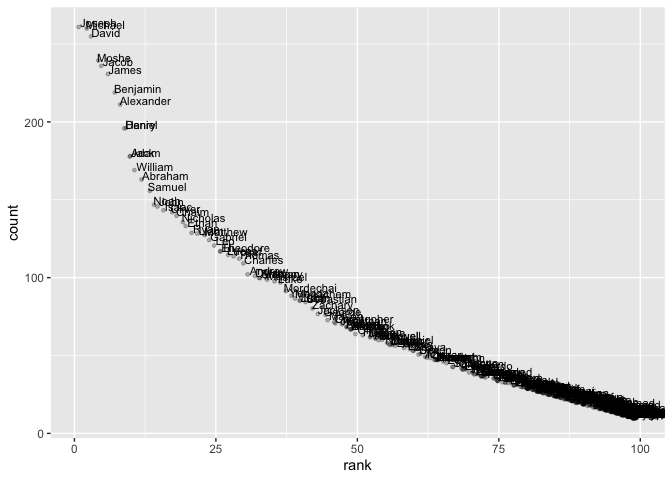
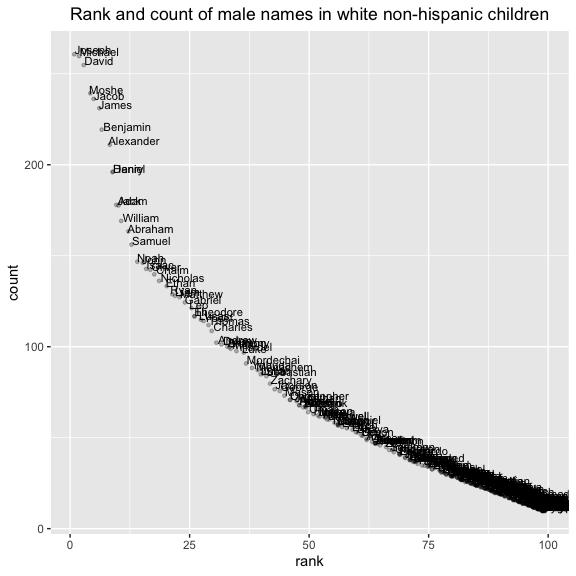
summary data

Changed region(s): [[0.0312, 0.0, 1.0, 1.0], [0.0, 0.4062, 0.0312, 0.5312]]

diff --git a/p8105_hw2_xj2249.md b/p8105_hw2_xj2249.md
@@ -1,6 +1,6 @@
 p8105\_hw2\_xj2249
 ================
-jx
+jx2249
 2019/9/24
 
 # Problem 1
@@ -9,41 +9,57 @@ jx
 
 ``` r
 library(tidyverse)
-mr_trash <- readxl::read_excel("./data/HealthyHarborWaterWheelTotals2018-7-28.xlsx", 
+mr_trash <- 
+        readxl::read_excel("./data/HealthyHarborWaterWheelTotals2018-7-28.xlsx", 
                                sheet = "Mr. Trash Wheel",
                                range = "A2:N336") %>% 
         janitor::clean_names() %>% 
-        drop_na(date) %>% 
+        drop_na(dumpster) %>% 
         mutate(sports_balls = as.integer(sports_balls))
 ```
 
 ## Read and clean precipitation data for 2017 and 2018
 
 ``` r
-pre_18 <- readxl::read_excel("./data/HealthyHarborWaterWheelTotals2018-7-28.xlsx", 
+pct_18 <- 
+        readxl::read_excel("./data/HealthyHarborWaterWheelTotals2018-7-28.xlsx", 
                              sheet = "2018 Precipitation",
                              range = "A2:B14") %>% 
         janitor::clean_names() %>% 
         drop_na(total) %>% 
         mutate(year = "2018")
-pre_17 <- readxl::read_excel("./data/HealthyHarborWaterWheelTotals2018-7-28.xlsx", 
+
+pct_17 <- 
+        readxl::read_excel("./data/HealthyHarborWaterWheelTotals2018-7-28.xlsx", 
                              sheet = "2017 Precipitation",
                              range = "A2:B14") %>% 
         janitor::clean_names() %>% 
         drop_na(total) %>% 
         mutate(year = "2017")
-pre_17_18 <- rbind(pre_18,pre_17) %>% 
+
+pct_17_18 <- 
+        rbind(pct_18,pct_17) %>% 
         mutate(month = month.name[month])
 ```
 
 Write a paragraph about these data; you are encouraged to use inline R.
+
 Be sure to note the number of observations in both resulting datasets,
 and give examples of key variables.
 
-For available data, what was the total precipitation in 2018?
+What was the median number of sports balls in a dumpster in 2017? done
 
-What was the median number of sports balls in a dumpster in 2017? The
-median number of sports balls in a dumpster in 2017 is 8
+The median number of sports balls in a dumpster in 2017 is 8
+
+## Mr. Trash Wheel dataset
+
+In Mr. Trash Wheel dataset, there are ‘285’ observations.
+
+In precipitation(2017-2018) dataset, there are 19 observations, with 3
+variables, indicating the total precipitation data for 19 months in 2017
+and 2018. The total precipitation in 2017 and 2018 are 32.93 and 23.5
+respectively. Besides, the average precipitation in 2017 and 2018 are
+2.74 and 3.36 respectively.
 
 # Problem 2
 
@@ -90,6 +106,10 @@ pol_snp <- left_join(pols,snp,by = c("year", "month"))
 pol_snp_unemp <- left_join(pol_snp,unemployment,by = c("year", "month"))
 ```
 
+Write a short paragraph about these datasets. Explain briefly what each
+dataset contained, and describe the resulting dataset (e.g. give the
+dimension, range of years, and names of key variables).
+
 # Problem 3
 
 ## Load and tidy the data
@@ -101,7 +121,9 @@ baby_name <-
         mutate(childs_first_name = str_to_title(childs_first_name),
                ethnicity = str_to_sentence(recode(ethnicity, "ASIAN AND PACIFIC ISLANDER" = "ASIAN AND PACI",
                                                                 "BLACK NON HISPANIC" = "BLACK NON HISP",
-                                                                        "WHITE NON HISPANIC" = "WHITE NON HISP"))) %>% 
+                                                                        "WHITE NON HISPANIC" = "WHITE NON HISP")),
+               gender = str_to_title(gender)
+               ) %>% 
         distinct(.keep_all = TRUE) %>% 
         view()
 ```
@@ -119,15 +141,13 @@ baby_name <-
 ## Creat table for ““Olivia”
 
 ``` r
-library(knitr)
 pop_olivia <- 
         baby_name %>% 
         filter(childs_first_name == "Olivia") %>% 
         select("year_of_birth","ethnicity","rank") %>% 
         pivot_wider(names_from = year_of_birth, values_from = rank ) %>% 
         select("ethnicity","2011","2012","2013","2014","2015","2016")
-
-kable(pop_olivia) 
+knitr::kable(pop_olivia) 
 ```
 
 | ethnicity      | 2011 | 2012 | 2013 | 2014 | 2015 | 2016 |
@@ -141,16 +161,20 @@ kable(pop_olivia)
 # Finally, for male, white non-hispanic children born in 2016, produce a scatter plot showing the number of children with a name (y axis) against the rank in popularity of that name (x axis).
 ```
 
+Finally, for male, white non-hispanic children born in 2016, produce a
+scatter plot showing the number of children with a name (y axis) against
+the rank in popularity of that name (x axis).
+
 ## The most popular name among male children over time.
 
 ``` r
 pop_male_name <- 
         baby_name %>% 
-        filter(gender == "MALE" & rank == 1) %>% 
+        filter(gender == "Male" & rank == 1) %>% 
         select(year_of_birth, ethnicity, childs_first_name) %>% 
         pivot_wider(names_from = year_of_birth, values_from = childs_first_name ) %>% 
         select("ethnicity","2011","2012","2013","2014","2015","2016") 
-kable(pop_male_name)
+knitr::kable(pop_male_name) 
 ```
 
 | ethnicity      | 2011    | 2012   | 2013   | 2014   | 2015   | 2016   |
@@ -164,10 +188,12 @@ kable(pop_male_name)
 
 ``` r
 baby_name %>%
-        filter(gender == "MALE" & year_of_birth == 2016 & ethnicity == "White non hisp") %>% 
+        filter(gender == "Male" & year_of_birth == 2016 & ethnicity == "White non hisp") %>% 
         ggplot(aes(x = rank, y = count)) + 
+        geom_point(position = "jitter",alpha = 0.25, size = 1) +
         geom_text(aes(label = childs_first_name),hjust = 0, vjust = 0,size = 3) +
-        geom_point(position = "jitter",alpha = 0.25, size = 1) 
+        labs(title = "Rank and count of male names in white non-hispanic children") +
+        theme(plot.title = element_text(hjust = 0.5))
 ```
 
 ![](p8105_hw2_xj2249_files/figure-gfm/unnamed-chunk-10-1.png)<!-- -->
